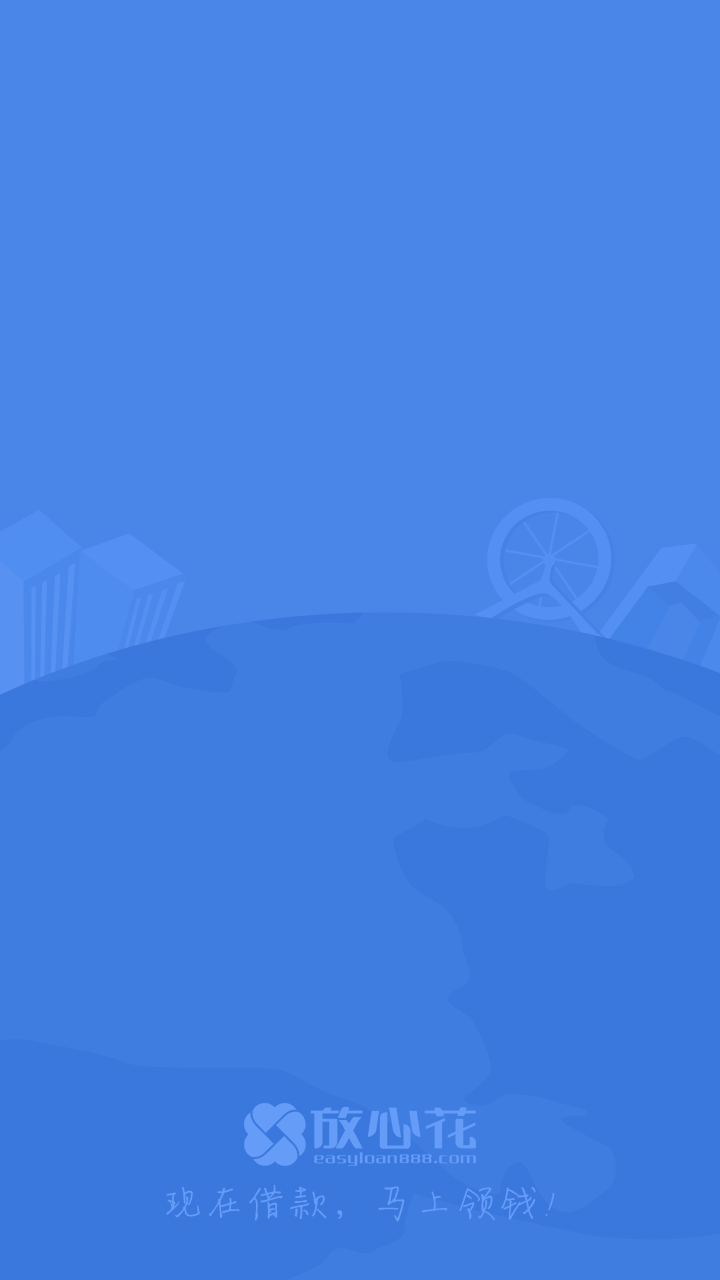
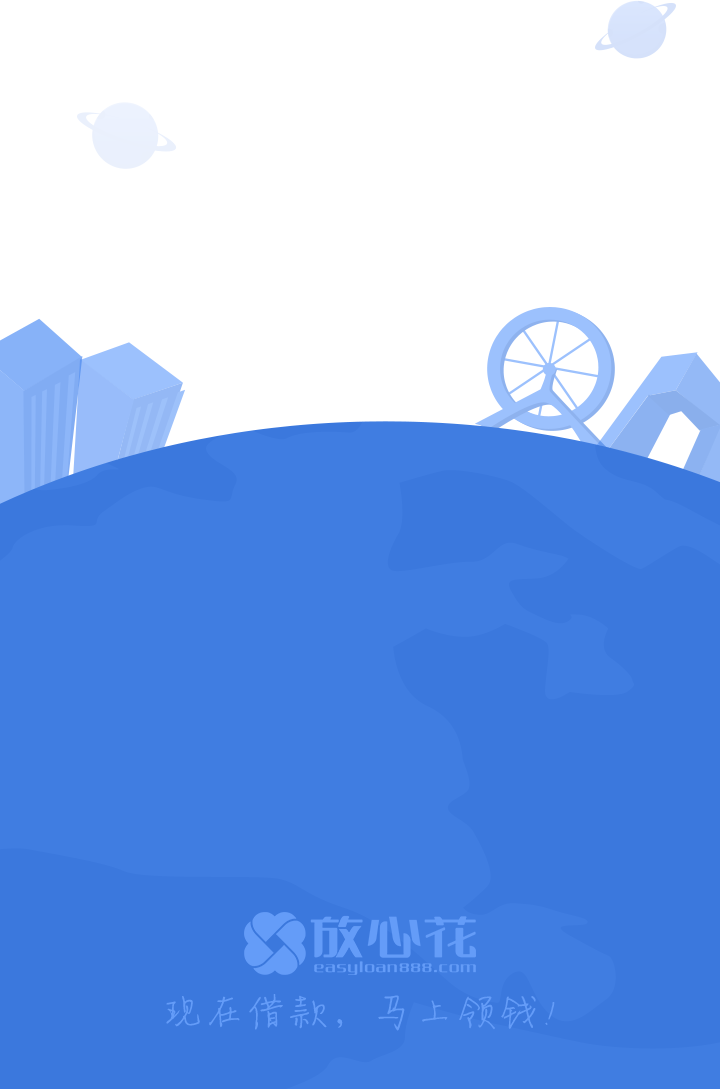
Fix: background img position

diff --git a/apps/loan/outside-register-success-wx/less/index.less b/apps/loan/outside-register-success-wx/less/index.less
@@ -8,8 +8,14 @@ h1, h2, h3, p {
   font-weight: normal;
 }
 
+html {
+  height: 100%;
+}
+
 body {
-  background: url("../images/bg.png") no-repeat;
+  height: 100%;
+  background: #4a86e8 url("../images/bg.png") no-repeat;
+  background-position: bottom;
   color: rgb(255, 255, 255);
   font-family: "PingFangSC";
   text-align: center;
@@ -17,7 +23,7 @@ body {
 
 .follow-wx-wrap {
   position: absolute;
-  top: 243px;
+  top: 120px;
   width: 100%;
 
   .success-info {

diff --git a/apps/loan/outside-register-success-app/less/index.less b/apps/loan/outside-register-success-app/less/index.less
@@ -8,15 +8,21 @@ h3, p {
   font-weight: normal;
 }
 
+html {
+  height: 100%;
+}
+
 body {
-  background: url("../images/bg.png") no-repeat;
+  height: 100%;
+  background: #4a86e8 url("../images/bg.png") no-repeat;
+  background-position: bottom;
   font-family: "PingFangSC";
   text-align: center;
 }
 
 .follow-wx-wrap {
   position: absolute;
-  top: 243px;
+  top: 120px;
   width: 100%;
 
   .success-info {
